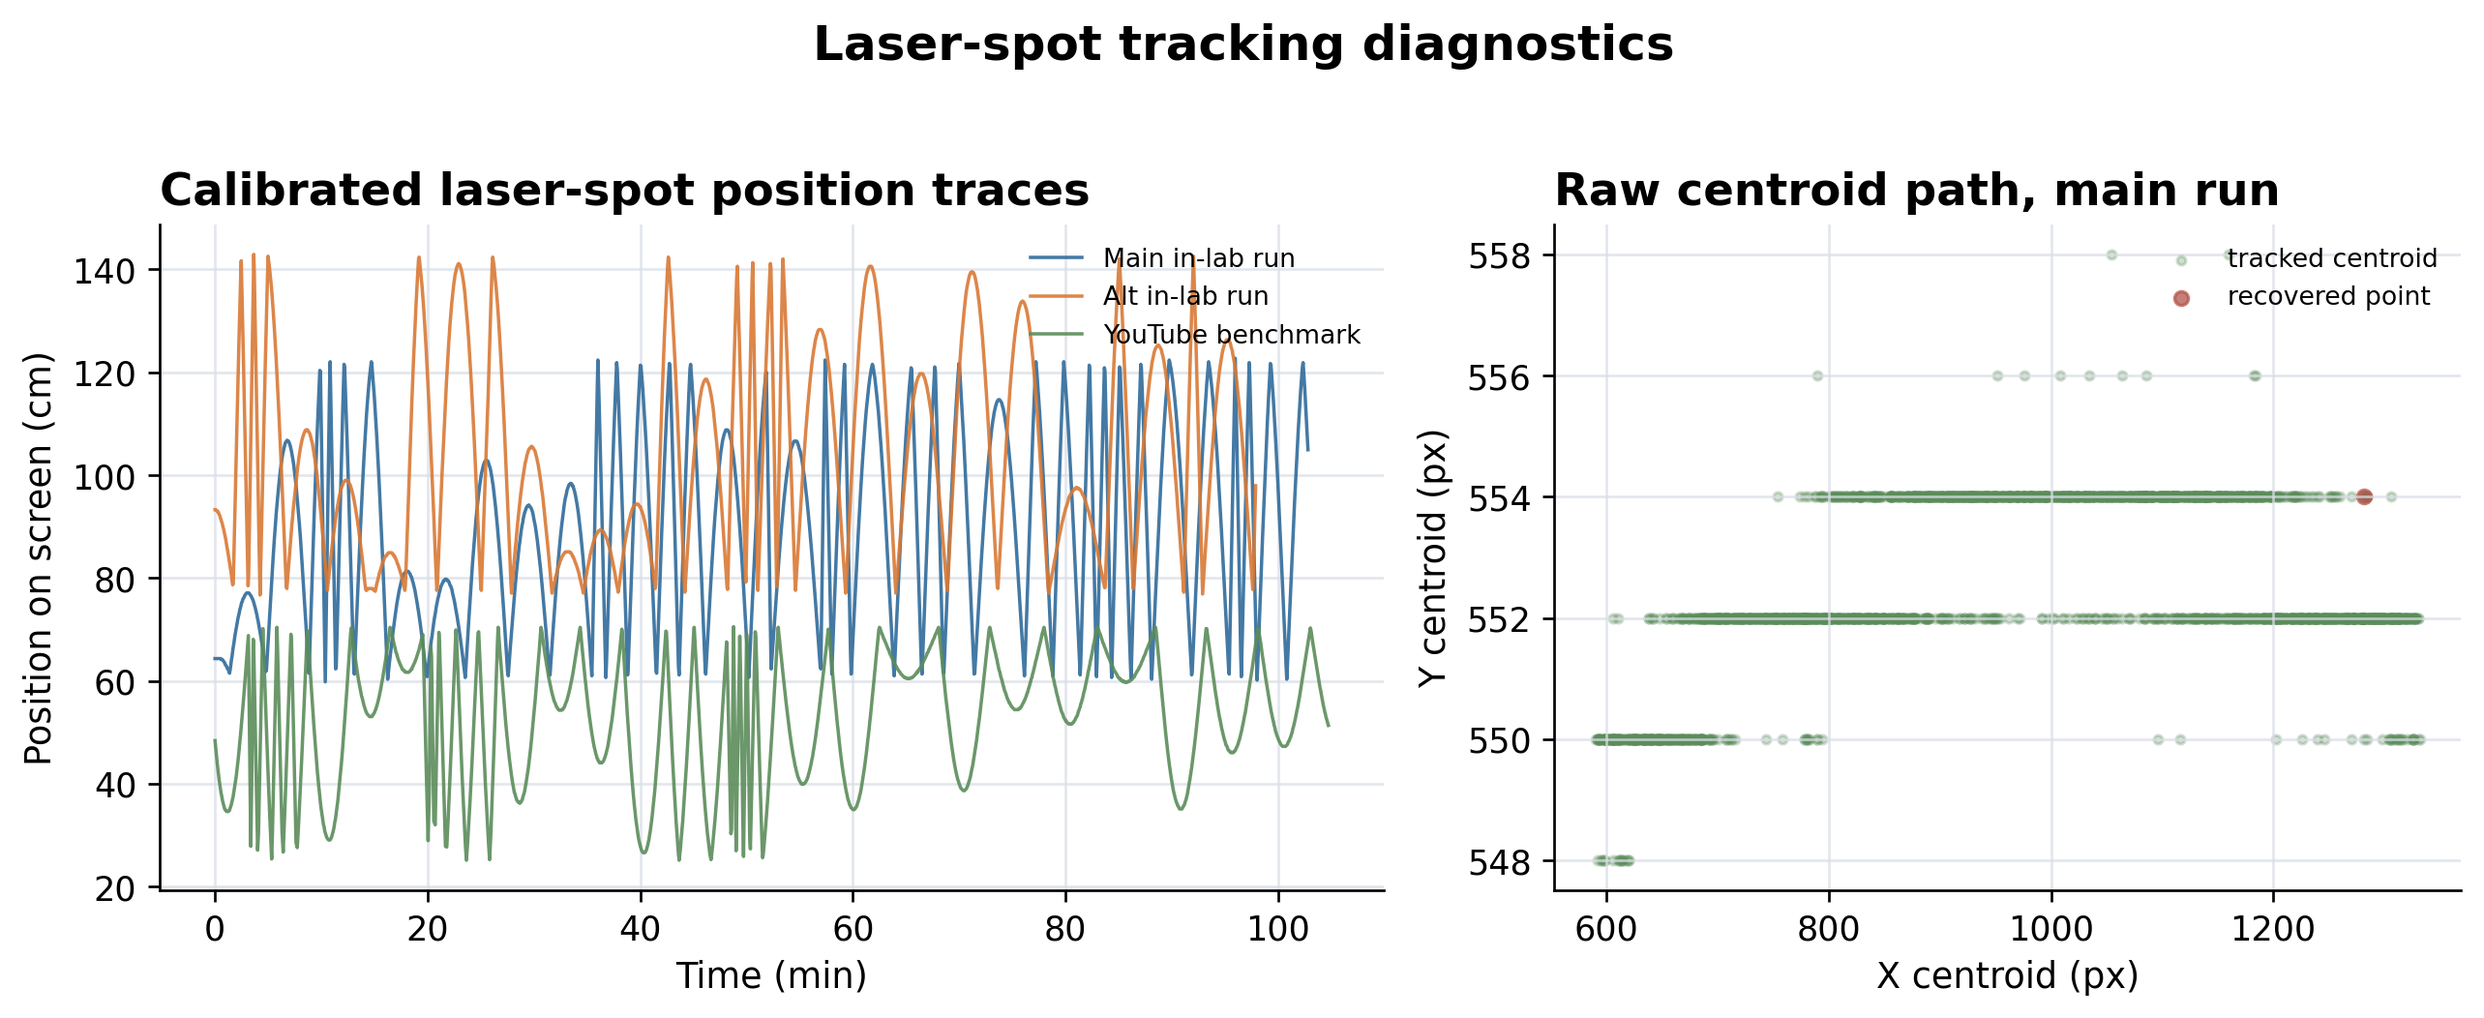
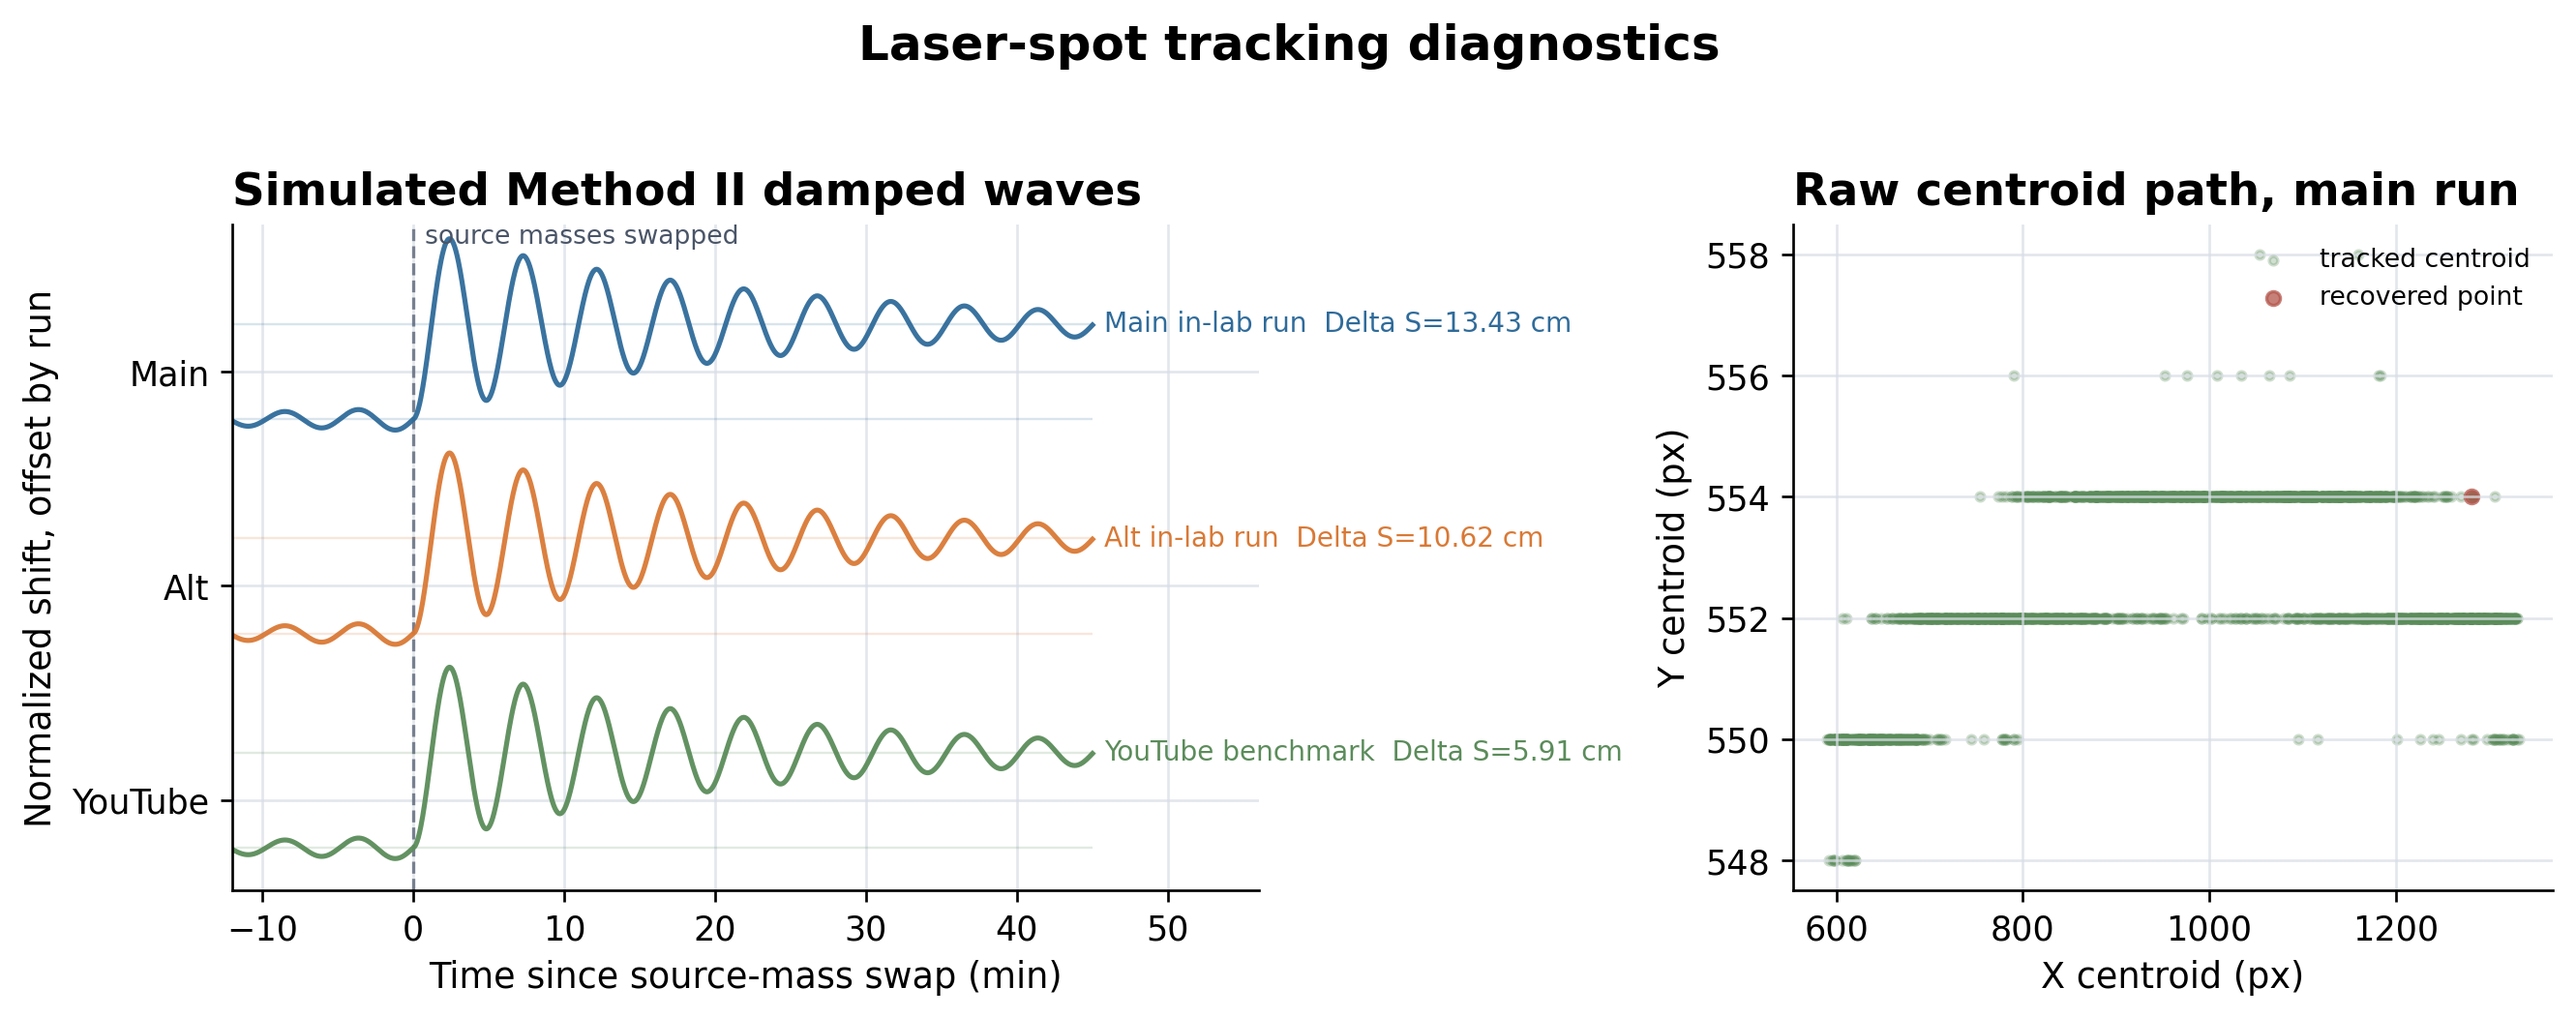
Polish Cavendish README figures

diff --git a/scripts/reproduce_report_artifacts.py b/scripts/reproduce_report_artifacts.py
@@ -116,7 +116,7 @@ def rel_u_deflection(deltaS_cm: float, u_deltaS_cm: float, params: dict, u_T_sec
 
 def plot_readme_overview(method_df: pd.DataFrame, sys_df: pd.DataFrame, params: dict) -> None:
     set_plot_style()
-    fig, axes = plt.subplots(1, 2, figsize=(11.2, 4.4), gridspec_kw={"width_ratios": [1.15, 1.0]})
+    fig, axes = plt.subplots(1, 2, figsize=(11.6, 4.4), gridspec_kw={"width_ratios": [1.2, 1.0]})
 
     labels = ["YouTube run", "Alt in-lab run", "Main in-lab run"]
     y = np.arange(len(labels))
@@ -125,13 +125,32 @@ def plot_readme_overview(method_df: pd.DataFrame, sys_df: pd.DataFrame, params: 
     accepted = params["constants"]["G_true"] * 1e10
 
     axes[0].errorbar(g_values, y, xerr=g_sigma, fmt="o", color=BLUE, ecolor="#7FA7C7", capsize=5, ms=7)
-    axes[0].axvline(accepted, color=GREEN, ls="--", lw=1.5, label="Accepted G")
+    axes[0].axvline(accepted, color=GREEN, ls="--", lw=1.5)
     axes[0].set_yticks(y, labels)
     axes[0].set_xlabel("G estimate (10^-10 SI)")
     axes[0].set_title("Method II estimates from calibrated deflection")
+    axes[0].set_xlim(max(0.35, accepted - 0.2), float(np.max(g_values + g_sigma)) + 1.2)
+    axes[0].set_ylim(-0.25, len(labels) - 0.45)
+    axes[0].annotate(
+        f"Accepted G = {accepted:.2f}",
+        xy=(accepted, 2.38),
+        xytext=(accepted + 0.16, 2.38),
+        ha="left",
+        va="center",
+        color=GREEN,
+        fontsize=9,
+        arrowprops={"arrowstyle": "-", "color": GREEN, "lw": 1.0},
+    )
     for x, yy, sigma in zip(g_values, y, g_sigma):
-        axes[0].text(x + sigma + 0.08, yy, f"{x:.2f} +/- {sigma:.2f}", va="center", color=GRAY, fontsize=9)
-    axes[0].legend(loc="lower right")
+        axes[0].text(
+            x + sigma + 0.08,
+            yy,
+            f"{x:.2f} +/- {sigma:.2f}",
+            va="center",
+            color=GRAY,
+            fontsize=9,
+            bbox={"facecolor": "white", "edgecolor": "none", "alpha": 0.86, "pad": 1.4},
+        )
 
     top_sys = sys_df.sort_values("frac_of_deltaSexp_pct", ascending=False).head(5).iloc[::-1]
     axes[1].barh(top_sys["effect"], top_sys["frac_of_deltaSexp_pct"], color=ORANGE)
@@ -144,33 +163,49 @@ def plot_readme_overview(method_df: pd.DataFrame, sys_df: pd.DataFrame, params: 
     save_figure(fig, FIG_DIR / "method2_overview.png")
 
 
-def plot_tracking_diagnostics() -> None:
+def plot_tracking_diagnostics(params: dict, yt_meta: dict, deltaS_by_run: dict) -> None:
     """Render a compact diagnostic view of the laser-spot tracking workflow."""
     set_plot_style()
-    processed_runs = [
-        ("Main in-lab run", ROOT / "data" / "processed" / "video_main_100min_position_cm.csv", BLUE),
-        ("Alt in-lab run", ROOT / "data" / "processed" / "video_alt_full_position_cm.csv", ORANGE),
-        ("YouTube benchmark", ROOT / "data" / "processed" / "youtube_100min_position_cm.csv", GREEN),
+    model_runs = [
+        ("YouTube benchmark", "youtube_100min", GREEN, 0.0),
+        ("Alt in-lab run", "video_alt_full", ORANGE, 2.25),
+        ("Main in-lab run", "video_main_100min", BLUE, 4.5),
     ]
 
-    fig, axes = plt.subplots(1, 2, figsize=(10.8, 4.2), gridspec_kw={"width_ratios": [1.35, 1.0]})
+    fig, axes = plt.subplots(1, 2, figsize=(11.2, 4.2), gridspec_kw={"width_ratios": [1.35, 1.0]})
 
-    for label, path, color in processed_runs:
-        df = pd.read_csv(path)
-        step = max(len(df) // 1800, 1)
-        sample = df.iloc[::step, :]
-        axes[0].plot(
-            sample["Time_Sec"].to_numpy(dtype=float) / 60.0,
-            sample["position_cm"].to_numpy(dtype=float),
+    t_rel_min = np.linspace(-12.0, 45.0, 1400)
+    t_rel_sec = t_rel_min * 60.0
+    period_sec = float(yt_meta["T_sec"])
+    omega = 2.0 * np.pi / period_sec
+    tau_sec = 22.0 * 60.0
+    pre = 0.12 * np.exp(t_rel_sec / tau_sec) * np.sin(omega * t_rel_sec)
+    post_t = np.maximum(t_rel_sec, 0.0)
+    post = 1.0 - np.exp(-post_t / tau_sec) * np.cos(omega * post_t)
+    model = np.where(t_rel_sec < 0.0, pre, post)
+
+    axes[0].axvline(0.0, color=GRAY, ls="--", lw=1.0, alpha=0.7)
+    axes[0].text(0.8, 6.42, "source masses swapped", color=GRAY, fontsize=8, va="center")
+    for label, run_key, color, offset in model_runs:
+        delta_s = float(deltaS_by_run[run_key])
+        y_model = model + offset
+        axes[0].plot(t_rel_min, y_model, color=color, lw=1.55, alpha=0.95)
+        axes[0].hlines([offset, offset + 1.0], t_rel_min.min(), t_rel_min.max(), color=color, lw=0.7, alpha=0.18)
+        axes[0].text(
+            45.8,
+            offset + 1.0,
+            f"{label}  Delta S={delta_s:.2f} cm",
             color=color,
-            lw=1.05,
-            alpha=0.9,
-            label=label,
+            fontsize=8.4,
+            va="center",
+            ha="left",
         )
-    axes[0].set_title("Calibrated laser-spot position traces", loc="left", fontweight="bold")
-    axes[0].set_xlabel("Time (min)")
-    axes[0].set_ylabel("Position on screen (cm)")
-    axes[0].legend(loc="upper right", fontsize=8)
+    axes[0].set_title("Simulated Method II damped waves", loc="left", fontweight="bold")
+    axes[0].set_xlabel("Time since source-mass swap (min)")
+    axes[0].set_ylabel("Normalized shift, offset by run")
+    axes[0].set_yticks([0.5, 2.75, 5.0], ["YouTube", "Alt", "Main"])
+    axes[0].set_xlim(-12.0, 56.0)
+    axes[0].set_ylim(-0.45, 6.55)
 
     raw = pd.read_csv(ROOT / "data" / "raw" / "laser_data_video_main_100min_imgcal.csv")
     step = max(len(raw) // 2500, 1)
@@ -342,7 +377,7 @@ def main() -> None:
     sys_df["deltaS_exp_cm_used"] = deltaS_exp_cm
     sys_df.to_csv(ROOT / "results" / "systematics_table3.csv", index=False)
     plot_readme_overview(method_df, sys_df, params)
-    plot_tracking_diagnostics()
+    plot_tracking_diagnostics(params, yt_meta, deltaS_by_run)
 
     # --- Data catalog (sizes + row counts) ---
     catalog_rows = []

diff --git a/README.md b/README.md
@@ -59,8 +59,9 @@ The summary figure below is regenerated from `results/method2_summary.csv` and
 
 **Laser-spot tracking diagnostics**
 
-The diagnostic figure below shows the raw centroid logs used by the reconstruction step,
-including recovered points from the tracking workflow.
+The diagnostic figure below shows a clean Method II damped-wave simulation for the
+three runs, alongside the raw centroid path and recovered points from the tracking
+workflow.
 
 <img src="figures/tracking_diagnostics.png" alt="Laser-spot tracking diagnostics" width="820">
 
